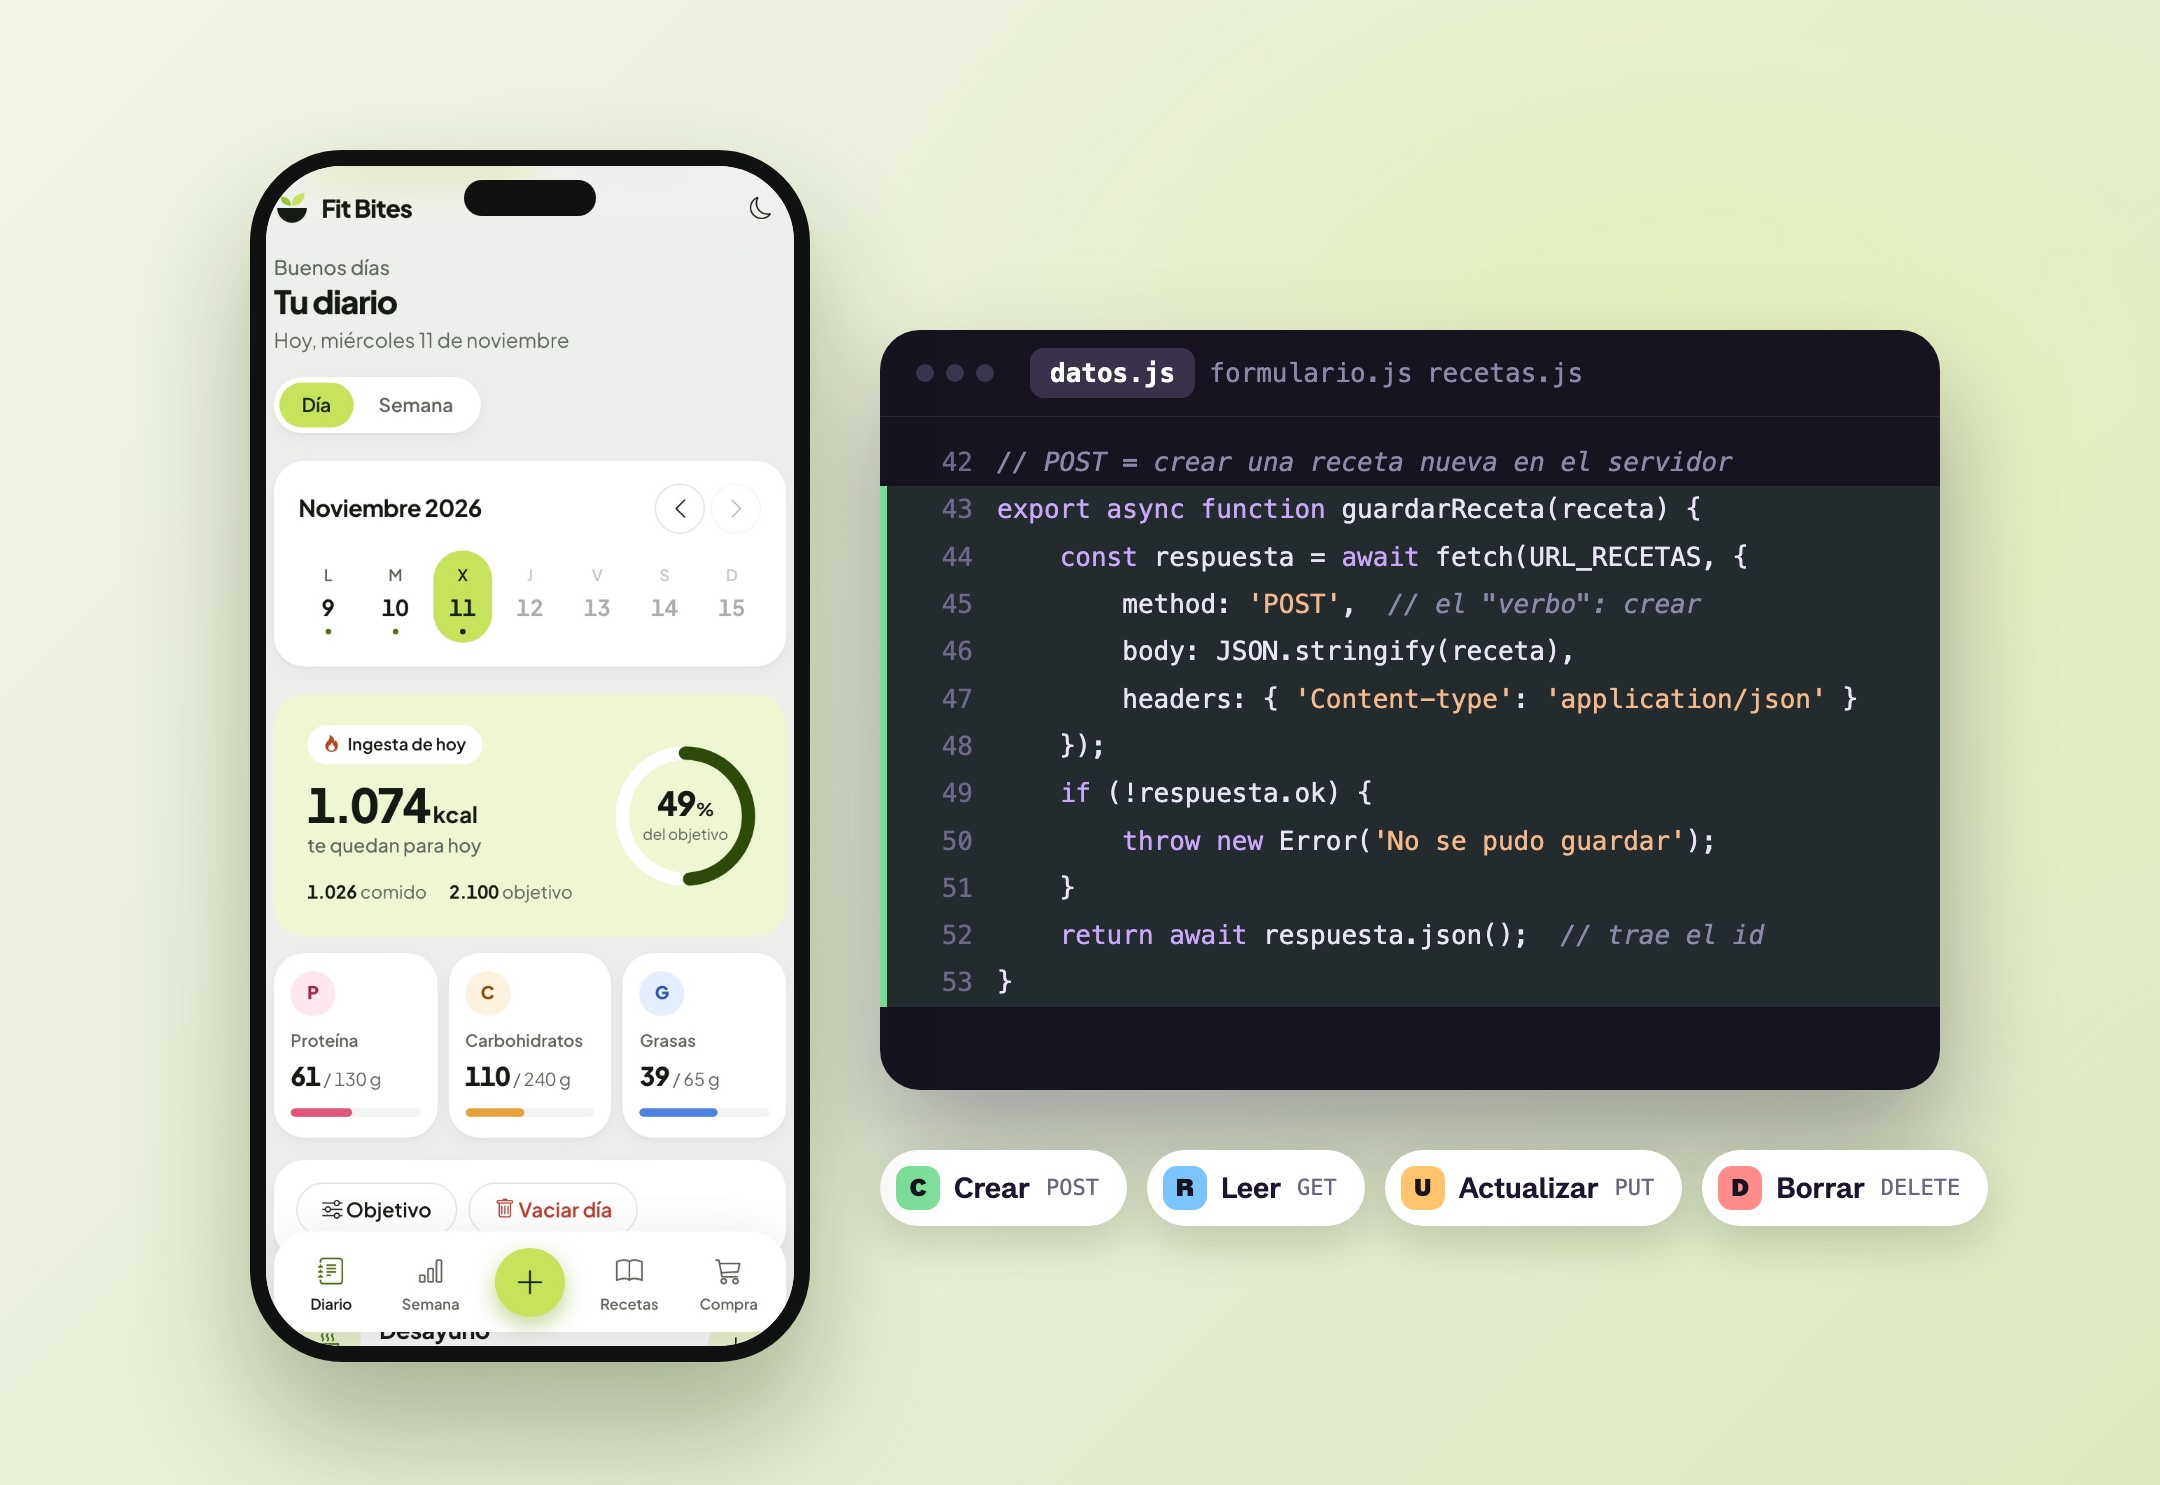
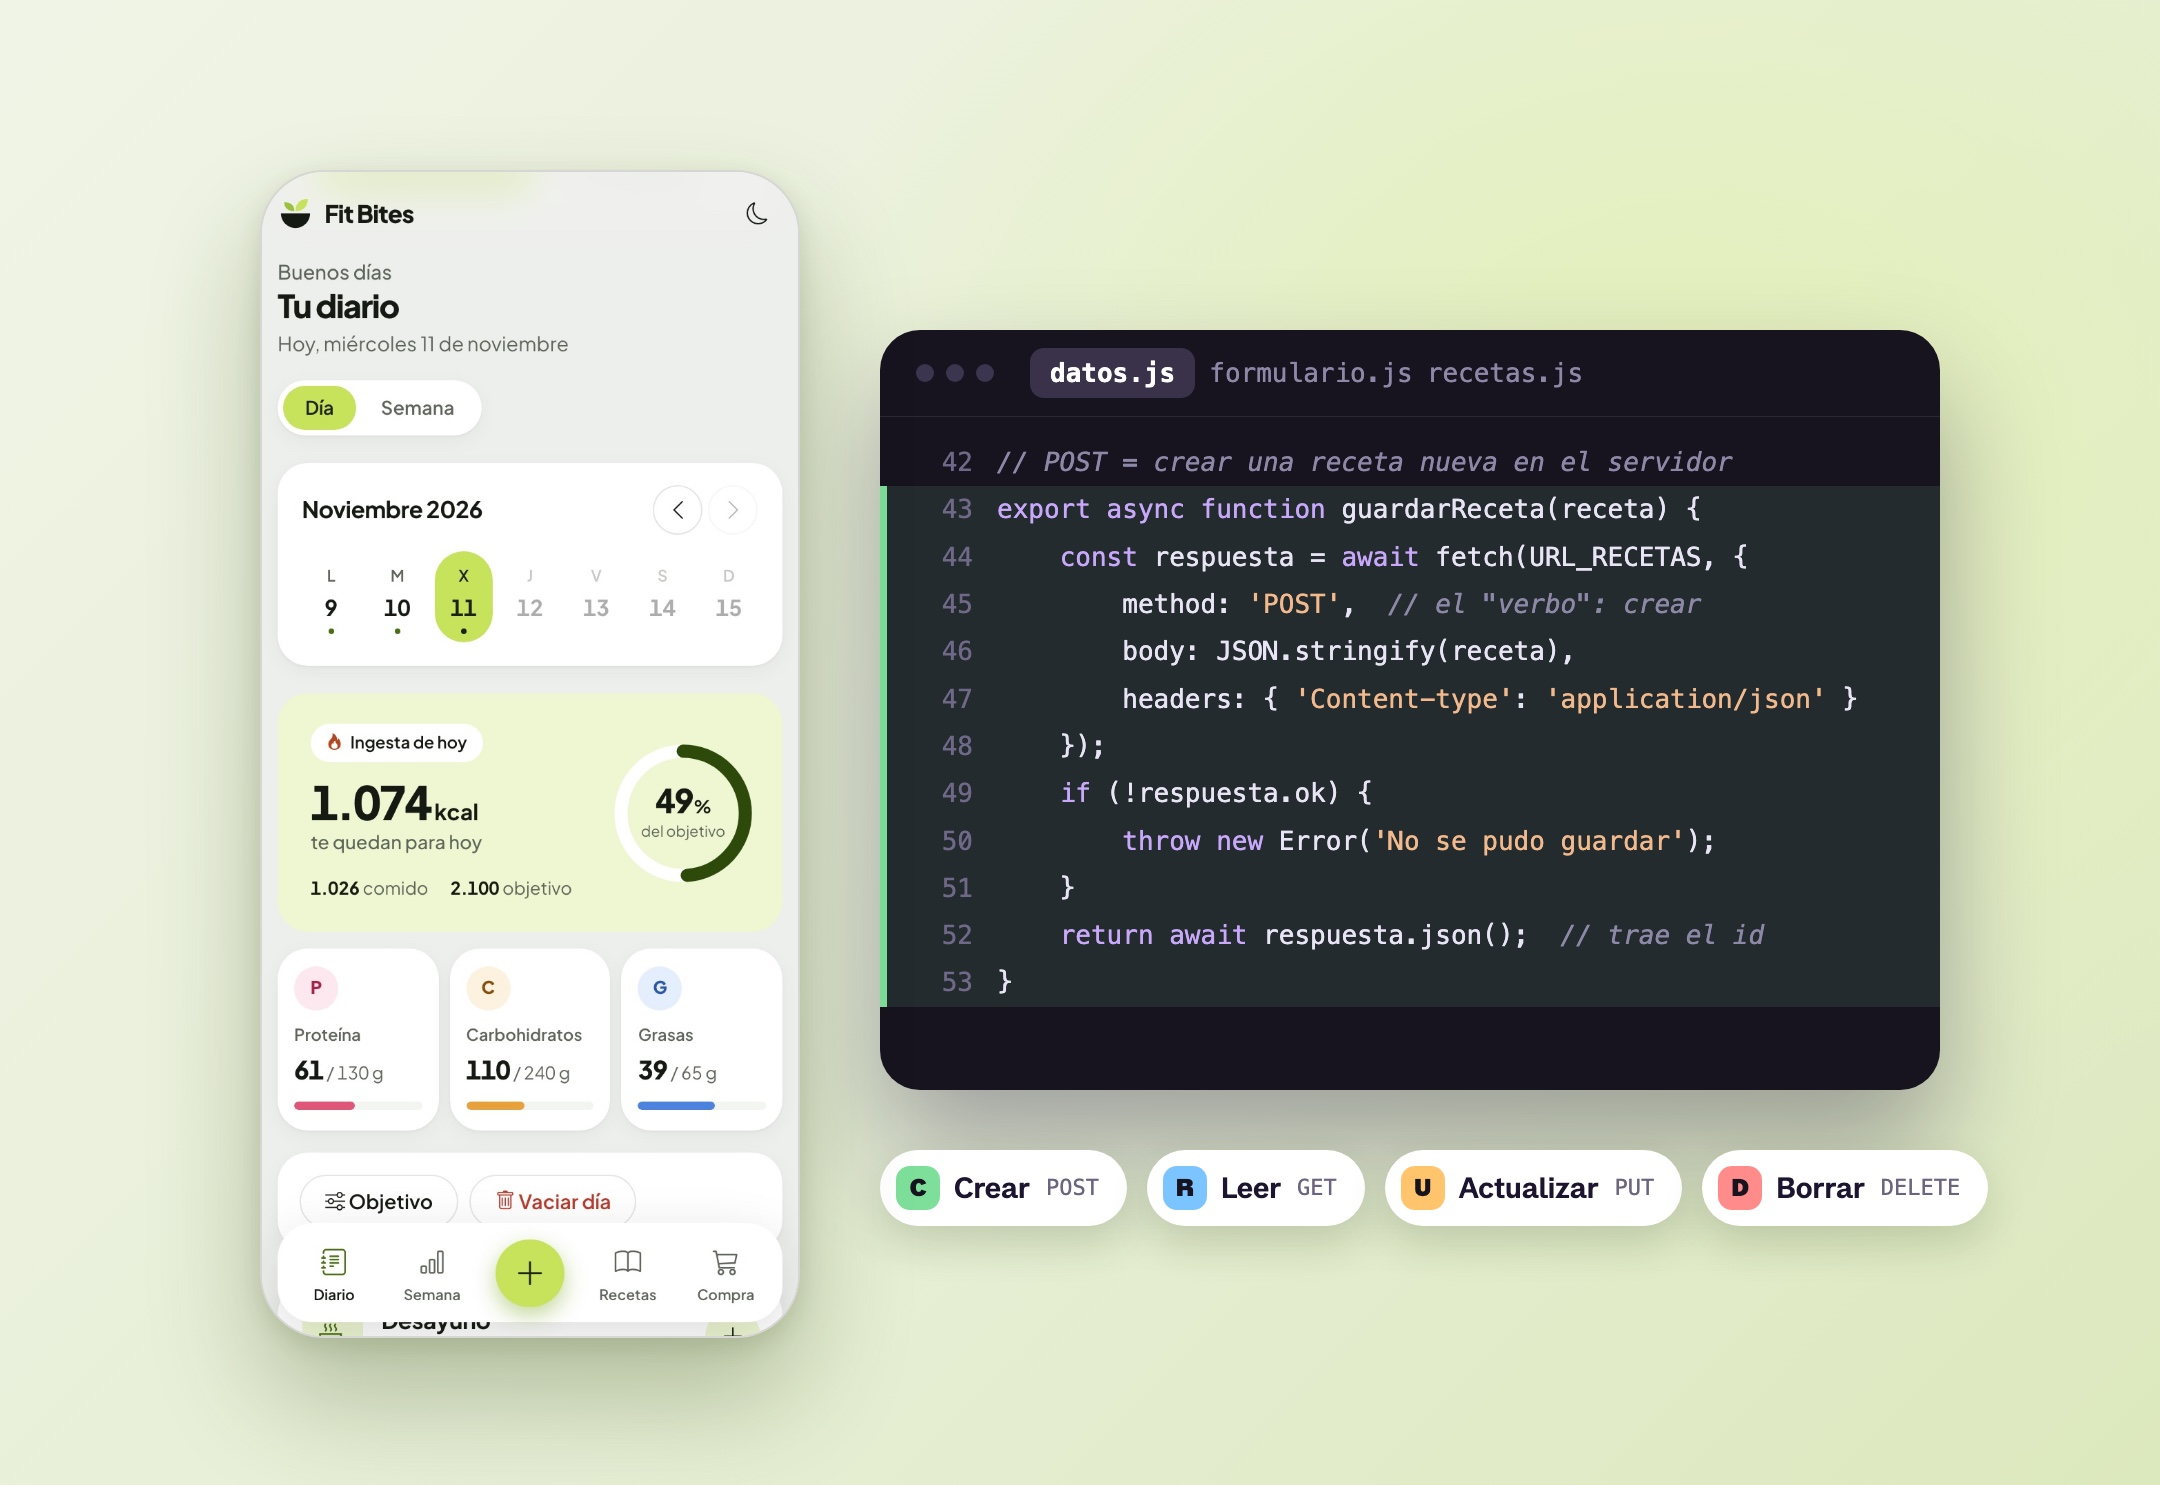
Fit Bites: portada con la pantalla de la app como en «Pantallas» (sin marco de móvil)

Changed region(s): [[0.0931, 0.0929, 0.3722, 0.9293], [0.1861, 0.4027, 0.2171, 0.4337]]

diff --git a/fit-bites/index.html b/fit-bites/index.html
@@ -12,7 +12,7 @@
   <meta property="og:description" content="Web app de diario de comidas hecha mientras aprendía el CRUD en un curso de desarrollo fullstack." />
   <meta property="og:type" content="article" />
   <meta property="og:url" content="https://taniadeazevedo.es/fit-bites/" />
-  <meta property="og:image" content="https://taniadeazevedo.es/fit-bites/imgs/portada-crud.jpg" />
+  <meta property="og:image" content="https://taniadeazevedo.es/fit-bites/imgs/portada-crud.jpg?v=2" />
   <meta name="viewport" content="width=device-width, initial-scale=1" />
   <meta name="theme-color" content="#f6f2fd" />
   <meta name="color-scheme" content="light" />
@@ -69,7 +69,7 @@
           <p class="v2-cs-lede">Una web app para apuntar lo que comes y ver al momento tus calorías, proteína, carbohidratos y grasas. La construí mientras hacía un curso de desarrollo fullstack, para aprender a fondo el <strong>CRUD</strong>: crear, leer, editar y borrar datos.</p>
         </div>
         <figure class="v2-cs-hero">
-          <img src="imgs/portada-crud.jpg" alt="Fit Bites: el diario de la app en un móvil junto al código de datos.js con la función que crea una receta (POST), y las cuatro operaciones del CRUD: crear, leer, actualizar y borrar" width="2160" height="1485" />
+          <img src="imgs/portada-crud.jpg?v=2" alt="Fit Bites: el diario de la app en un móvil junto al código de datos.js con la función que crea una receta (POST), y las cuatro operaciones del CRUD: crear, leer, actualizar y borrar" width="2160" height="1485" />
         </figure>
       </div>
     </section>
